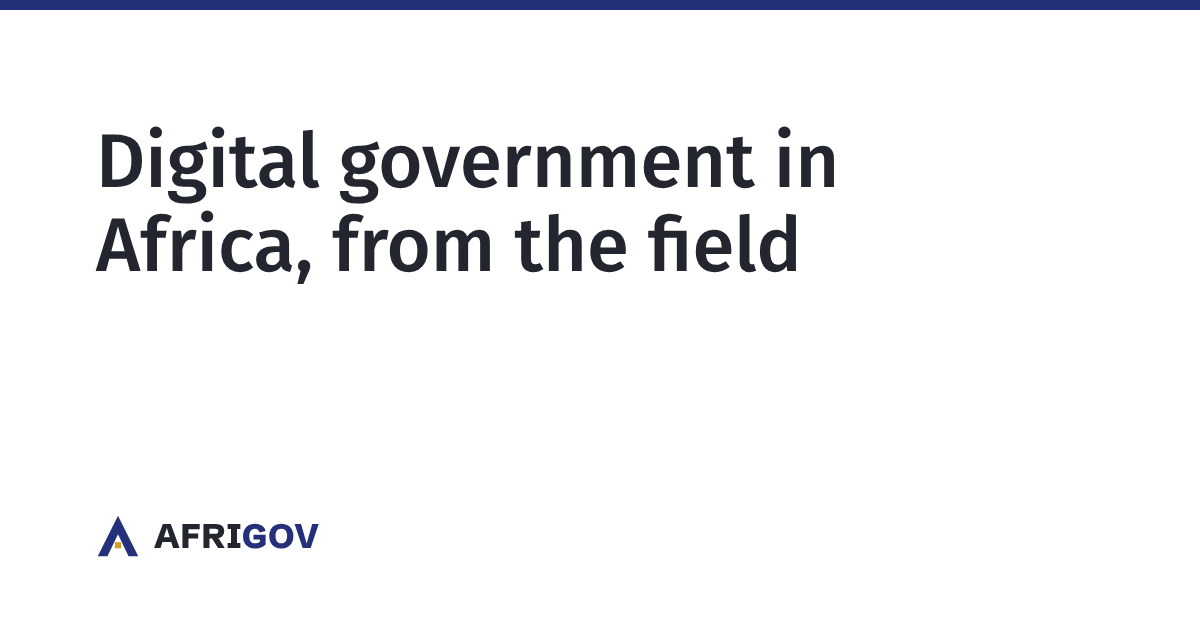
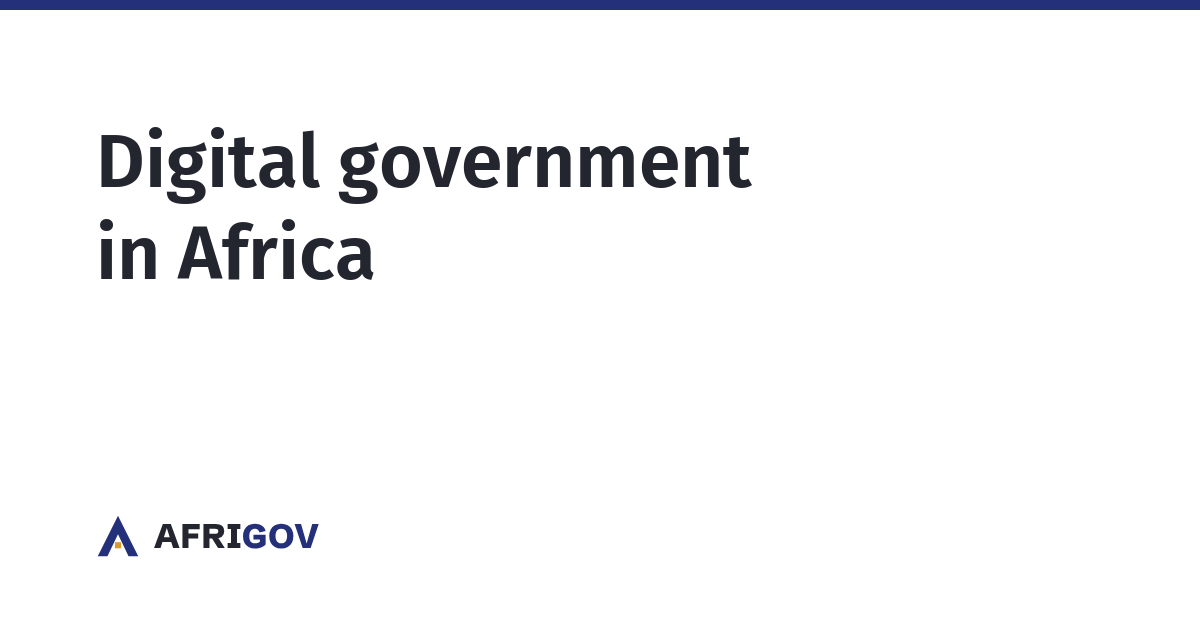
Ton plus discret : on parle de l'e-gouvernement, sans posture d'expert ni critique

Changed region(s): [[0.0617, 0.181, 0.7092, 0.4524], [0.1233, 0.2111, 0.2467, 0.3016], [0.0925, 0.2111, 0.1233, 0.2413]]

diff --git a/public/about.html b/public/about.html
@@ -4,13 +4,13 @@
 <meta charset="utf-8">
 <meta name="viewport" content="width=device-width, initial-scale=1, viewport-fit=cover">
 <title data-title-en="About | AFRIGOV" data-title-fr="À propos | AFRIGOV">About | AFRIGOV</title>
-<meta name="description" content="Who we are and what we write about: digital public services in Africa, told by practitioners." data-desc-en="Who we are and what we write about: digital public services in Africa, told by practitioners." data-desc-fr="Qui nous sommes et ce que nous suivons : les services publics numériques en Afrique, racontés par des praticiens.">
+<meta name="description" content="What AFRIGOV is about: digital government in Africa, told simply." data-desc-en="What AFRIGOV is about: digital government in Africa, told simply." data-desc-fr="Ce qu'est AFRIGOV : l'e-gouvernement en Afrique, raconté simplement.">
 <link rel="canonical" href="https://afrigov.news/about">
 <meta property="og:site_name" content="AFRIGOV">
 <meta property="og:type" content="website">
 <meta property="og:url" content="https://afrigov.news/about">
 <meta property="og:title" content="About | AFRIGOV">
-<meta property="og:description" content="Who we are and what we write about: digital public services in Africa, told by practitioners.">
+<meta property="og:description" content="What AFRIGOV is about: digital government in Africa, told simply.">
 <meta property="og:image" content="https://afrigov.news/og-image.png">
 <meta property="og:image:width" content="1200">
 <meta property="og:image:height" content="630">
@@ -44,15 +44,15 @@
     <article class="article">
       <h1 class="article-title"><span data-lang="en">About</span><span data-lang="fr">À propos</span></h1>
       <div class="prose">
-        <p><span data-lang="en">We work on digital public services in Africa: we design them, deliver them and maintain them. Here we write about what works, what breaks and why, from the civil registry counter to the meetings where projects get funded.</span><span data-lang="fr">Nous travaillons sur les services publics numériques en Afrique : nous les concevons, les livrons et les faisons vivre. Ici, nous racontons ce qui marche, ce qui casse et pourquoi, du guichet de l'état civil aux réunions où se décident les financements.</span></p>
-        <h2><span data-lang="en">What we cover</span><span data-lang="fr">Ce que nous suivons</span></h2>
-        <p><span data-lang="en">We follow digital government in the 54 countries of the continent through seven themes:</span><span data-lang="fr">Nous suivons le gouvernement numérique dans les 54 pays du continent, à travers sept thèmes :</span></p>
+        <p><span data-lang="en">AFRIGOV is a place to talk about digital government in Africa. We are interested in how public services move from paper to digital, and we share what we read, learn and notice along the way.</span><span data-lang="fr">AFRIGOV est un espace pour parler de l'e-gouvernement en Afrique. Nous nous intéressons à la façon dont les services publics passent du papier au numérique, et nous partageons ce que nous lisons, apprenons et observons en chemin.</span></p>
+        <h2><span data-lang="en">Topics</span><span data-lang="fr">Les sujets</span></h2>
+        <p><span data-lang="en">We write about digital government across the continent, around seven themes:</span><span data-lang="fr">Nous parlons de l'e-gouvernement sur l'ensemble du continent, autour de sept thèmes :</span></p>
         <ol><li><span data-lang="en">Core government systems</span><span data-lang="fr">Systèmes centraux de l'État</span></li><li><span data-lang="en">Public service delivery</span><span data-lang="fr">Services publics en ligne</span></li><li><span data-lang="en">Citizen engagement</span><span data-lang="fr">Participation citoyenne</span></li><li><span data-lang="en">GovTech enablers</span><span data-lang="fr">Catalyseurs GovTech</span></li><li><span data-lang="en">Infrastructure</span><span data-lang="fr">Infrastructures</span></li><li><span data-lang="en">Financing</span><span data-lang="fr">Financements</span></li><li><span data-lang="en">Ecosystem</span><span data-lang="fr">Écosystème</span></li></ol>
         <p><span data-lang="en">The first four are the GovTech focus areas used by the World Bank. We add infrastructure, financing, and the people and companies who make these services happen.</span><span data-lang="fr">Les quatre premiers reprennent les domaines GovTech de la Banque mondiale. Nous y ajoutons les infrastructures, les financements, et les personnes et entreprises qui font exister ces services.</span></p>
         <h2><span data-lang="en">The team</span><span data-lang="fr">L'équipe</span></h2>
         <p><span data-lang="en">[Short presentation of the editorial team: names, roles, countries.]</span><span data-lang="fr">[Courte présentation de l'équipe éditoriale : noms, rôles, pays.]</span></p>
         <h2><span data-lang="en">Write with us</span><span data-lang="fr">Écrire avec nous</span></h2>
-        <p><span data-lang="en">You deliver digital public services and have something to share? Write to</span><span data-lang="fr">Vous livrez des services publics numériques et avez une expérience à partager ? Écrivez à</span> <span data-contact></span>.</p>
+        <p><span data-lang="en">Interested in digital government and have something to share? Write to</span><span data-lang="fr">Le sujet vous intéresse et vous avez quelque chose à partager ? Écrivez à</span> <span data-contact></span>.</p>
       </div>
     </article>
     </div>

diff --git a/public/assets/site.js b/public/assets/site.js
@@ -17,12 +17,12 @@
       generic_error: 'Something went wrong. Please try again.',
       all: 'All', issue: 'Issue', views: 'views', likes: 'likes', comments: 'comments',
       no_articles: 'No articles yet.',
-      no_articles_title: 'First articles coming soon', welcome_text: 'We write about digital public services in Africa: what works, what fails, and why. The first articles are being written. Subscribe to get them by email.', no_results: 'No article matches your search.', results_for: 'Results for', permalink: 'Permalink', no_section: 'Nothing published in this section yet.', no_popular: 'Nothing published yet.',
+      no_articles_title: 'First articles coming soon', welcome_text: 'AFRIGOV is about digital government in Africa: how public services are moving from paper to digital, step by step. The first articles are on their way. Subscribe to get them by email.', no_results: 'No article matches your search.', results_for: 'Results for', permalink: 'Permalink', no_section: 'Nothing published in this section yet.', no_popular: 'Nothing published yet.',
       load_error: 'Articles could not be loaded. Please refresh the page.',
       by: 'By', min_read: 'min read', draft_preview: 'DRAFT PREVIEW',
       not_found_title: 'Article not found', not_found_text: 'This article does not exist or is no longer published.',
       like: 'Like', liked: 'Liked', link_copied: 'Link copied',
-      comments_title: 'Comments', no_comments: 'No comments yet. Be the first to share your field experience.',
+      comments_title: 'Comments', no_comments: 'No comments yet.',
       comment_ok: 'Thank you. Your comment will appear once it has been reviewed.',
       to_dark: 'Switch to dark mode', to_light: 'Switch to light mode', to_lang: 'Lire en français',
       err_invalid_email: 'Please enter a valid email address.',
@@ -44,12 +44,12 @@
       generic_error: 'Une erreur est survenue. Merci de réessayer.',
       all: 'Tout', issue: 'Numéro', views: 'vues', likes: 'likes', comments: 'commentaires',
       no_articles: 'Aucun article pour le moment.',
-      no_articles_title: 'Premiers articles très bientôt', welcome_text: 'Nous écrivons sur les services publics numériques en Afrique : ce qui marche, ce qui échoue, et pourquoi. Les premiers articles sont en cours d\'écriture. Abonnez-vous pour les recevoir par email.', no_results: 'Aucun article ne correspond à votre recherche.', results_for: 'Résultats pour', permalink: 'Lien permanent', no_section: 'Rien n\'a encore été publié dans cette rubrique.', no_popular: 'Rien de publié pour le moment.',
+      no_articles_title: 'Premiers articles très bientôt', welcome_text: 'AFRIGOV parle de l\'e-gouvernement en Afrique : comment les services publics passent du papier au numérique, étape par étape. Les premiers articles arrivent. Abonnez-vous pour les recevoir par email.', no_results: 'Aucun article ne correspond à votre recherche.', results_for: 'Résultats pour', permalink: 'Lien permanent', no_section: 'Rien n\'a encore été publié dans cette rubrique.', no_popular: 'Rien de publié pour le moment.',
       load_error: 'Les articles n\'ont pas pu être chargés. Merci de rafraîchir la page.',
       by: 'Par', min_read: 'min de lecture', draft_preview: 'APERÇU DU BROUILLON',
       not_found_title: 'Article introuvable', not_found_text: 'Cet article n\'existe pas ou n\'est plus publié.',
       like: 'J\'aime', liked: 'Aimé', link_copied: 'Lien copié',
-      comments_title: 'Commentaires', no_comments: 'Aucun commentaire pour le moment. Soyez le premier à partager votre expérience de terrain.',
+      comments_title: 'Commentaires', no_comments: 'Aucun commentaire pour le moment.',
       comment_ok: 'Merci. Votre commentaire apparaîtra après relecture.',
       to_dark: 'Passer en mode sombre', to_light: 'Passer en mode clair', to_lang: 'Read in English',
       err_invalid_email: 'Indiquez une adresse email valide.',

diff --git a/public/index.html b/public/index.html
@@ -3,14 +3,14 @@
 <head>
 <meta charset="utf-8">
 <meta name="viewport" content="width=device-width, initial-scale=1, viewport-fit=cover">
-<title data-title-en="Digital government in Africa, from the field" data-title-fr="L'État numérique en Afrique, vu du terrain">Digital government in Africa, from the field</title>
-<meta name="description" content="Analysis and field notes on digital public services in Africa: digital identity, online services, interoperability and financing, written by the people who build them." data-desc-en="Analysis and field notes on digital public services in Africa: digital identity, online services, interoperability and financing, written by the people who build them." data-desc-fr="Analyses et retours de terrain sur les services publics numériques en Afrique : identité numérique, services en ligne, interopérabilité et financements, écrits par celles et ceux qui les construisent.">
+<title data-title-en="Digital government in Africa" data-title-fr="L'e-gouvernement en Afrique">Digital government in Africa</title>
+<meta name="description" content="AFRIGOV talks about digital government in Africa: how public services are moving from paper to digital, from the first initiatives to today's projects." data-desc-en="AFRIGOV talks about digital government in Africa: how public services are moving from paper to digital, from the first initiatives to today's projects." data-desc-fr="AFRIGOV parle de l'e-gouvernement en Afrique : comment les services publics passent du papier au numérique, des premières initiatives aux projets d'aujourd'hui.">
 <link rel="canonical" href="https://afrigov.news/">
 <meta property="og:site_name" content="AFRIGOV">
 <meta property="og:type" content="website">
 <meta property="og:url" content="https://afrigov.news/">
-<meta property="og:title" content="Digital government in Africa, from the field">
-<meta property="og:description" content="Analysis and field notes on digital public services in Africa: digital identity, online services, interoperability and financing, written by the people who build them.">
+<meta property="og:title" content="Digital government in Africa">
+<meta property="og:description" content="AFRIGOV talks about digital government in Africa: how public services are moving from paper to digital, from the first initiatives to today's projects.">
 <meta property="og:image" content="https://afrigov.news/og-image.png">
 <meta property="og:image:width" content="1200">
 <meta property="og:image:height" content="630">
@@ -27,7 +27,7 @@
 <script src="/assets/side.js" defer></script>
 <script src="/assets/article.js" defer></script>
 
-<script type="application/ld+json">{"@context": "https://schema.org", "@type": "WebSite", "name": "AFRIGOV", "url": "https://afrigov.news/", "inLanguage": ["en", "fr"], "description": "Analysis and field notes on digital public services in Africa: digital identity, online services, interoperability and financing, written by the people who build them.", "publisher": {"@type": "Organization", "name": "AFRIGOV", "url": "https://afrigov.news/", "logo": "https://afrigov.news/favicon.svg"}}</script>
+<script type="application/ld+json">{"@context": "https://schema.org", "@type": "WebSite", "name": "AFRIGOV", "url": "https://afrigov.news/", "inLanguage": ["en", "fr"], "description": "AFRIGOV talks about digital government in Africa: how public services are moving from paper to digital, from the first initiatives to today's projects.", "publisher": {"@type": "Organization", "name": "AFRIGOV", "url": "https://afrigov.news/", "logo": "https://afrigov.news/favicon.svg"}}</script>
 </head>
 <body data-home>
 <a class="sr-only" href="#main"><span data-lang="en">Skip to content</span><span data-lang="fr">Aller au contenu</span></a>

diff --git a/public/article.html b/public/article.html
@@ -4,13 +4,13 @@
 <meta charset="utf-8">
 <meta name="viewport" content="width=device-width, initial-scale=1, viewport-fit=cover">
 <title data-title-en="AFRIGOV" data-title-fr="AFRIGOV">AFRIGOV</title>
-<meta name="description" content="Analysis and field notes on digital public services in Africa: digital identity, online services, interoperability and financing, written by the people who build them." data-desc-en="Analysis and field notes on digital public services in Africa: digital identity, online services, interoperability and financing, written by the people who build them." data-desc-fr="Analyses et retours de terrain sur les services publics numériques en Afrique : identité numérique, services en ligne, interopérabilité et financements, écrits par celles et ceux qui les construisent.">
+<meta name="description" content="AFRIGOV talks about digital government in Africa: how public services are moving from paper to digital, from the first initiatives to today's projects." data-desc-en="AFRIGOV talks about digital government in Africa: how public services are moving from paper to digital, from the first initiatives to today's projects." data-desc-fr="AFRIGOV parle de l'e-gouvernement en Afrique : comment les services publics passent du papier au numérique, des premières initiatives aux projets d'aujourd'hui.">
 <link rel="canonical" href="https://afrigov.news/">
 <meta property="og:site_name" content="AFRIGOV">
 <meta property="og:type" content="article">
 <meta property="og:url" content="https://afrigov.news/">
 <meta property="og:title" content="AFRIGOV">
-<meta property="og:description" content="Analysis and field notes on digital public services in Africa: digital identity, online services, interoperability and financing, written by the people who build them.">
+<meta property="og:description" content="AFRIGOV talks about digital government in Africa: how public services are moving from paper to digital, from the first initiatives to today's projects.">
 <meta property="og:image" content="https://afrigov.news/og-image.png">
 <meta property="og:image:width" content="1200">
 <meta property="og:image:height" content="630">
